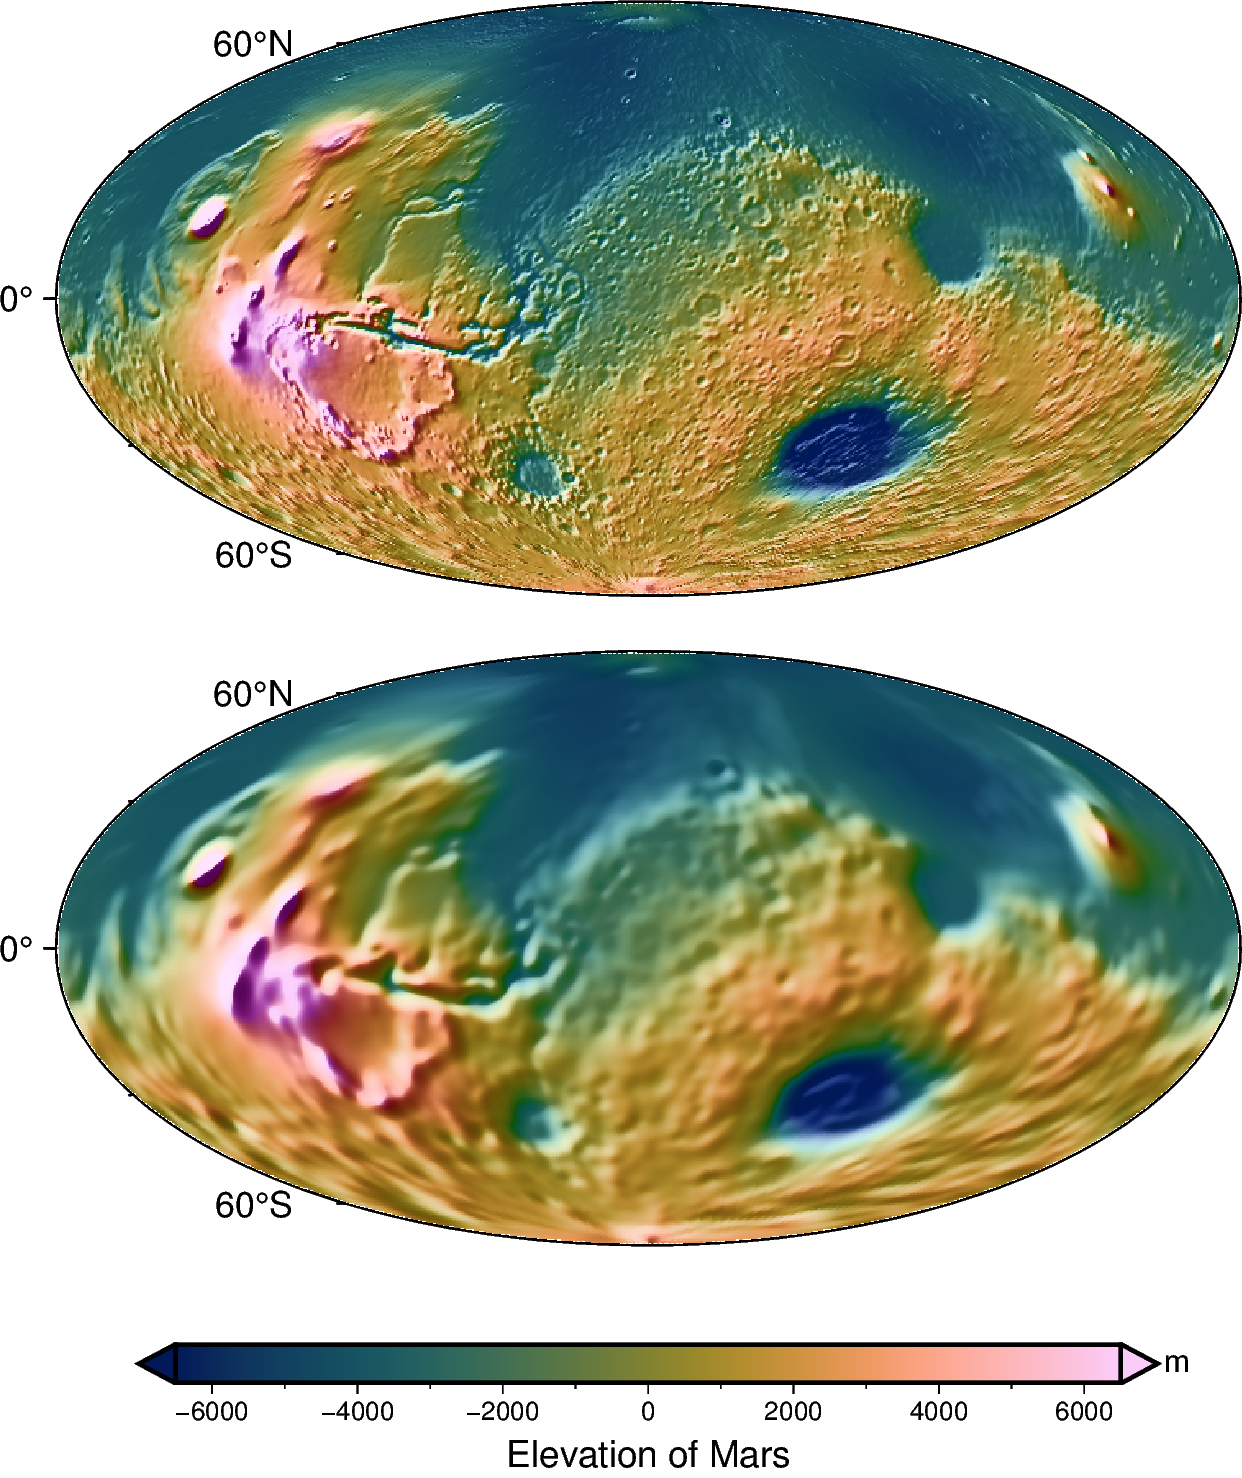
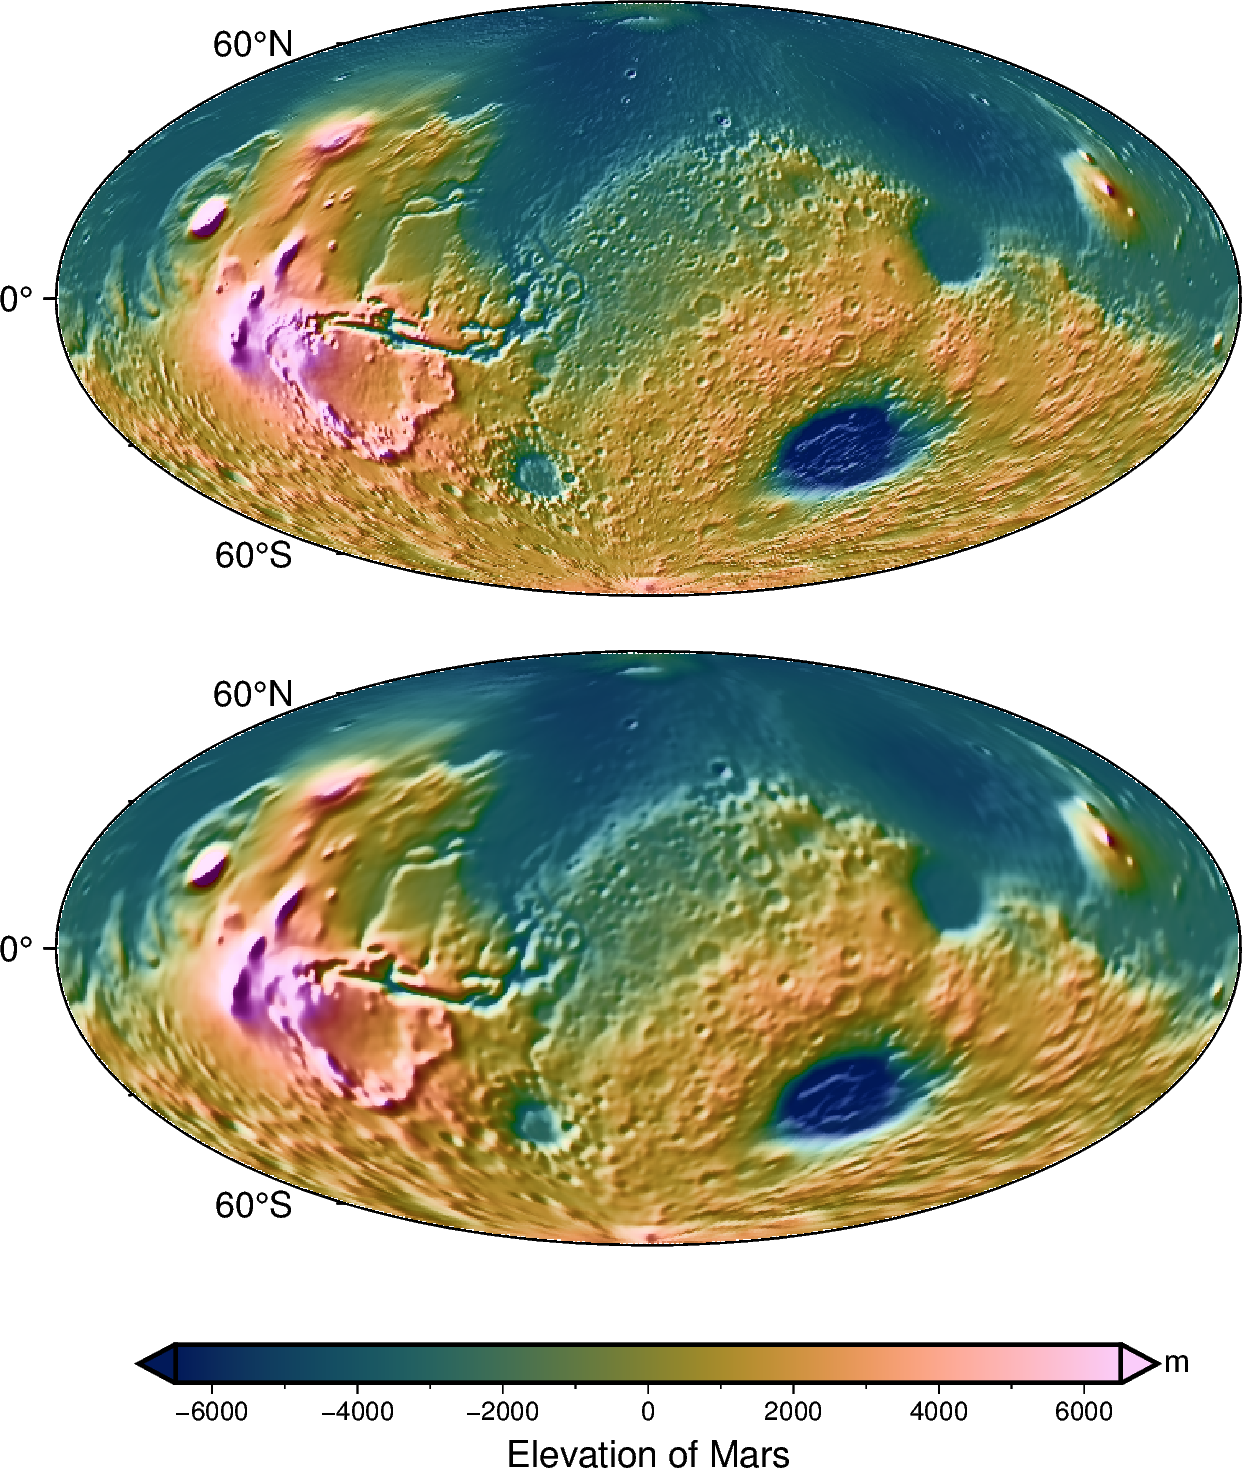
Add comments for understanding

Changed region(s): [[0.0612, 0.498, 1.0, 0.8403], [0.8261, 0.5291, 0.9179, 0.5913]]

diff --git a/Fig5_PyGMT_xarray.py b/Fig5_PyGMT_xarray.py
@@ -37,7 +37,9 @@ from pygmt.datasets import load_mars_relief
 
 mars = load_mars_relief(resolution="30m")
 with pygmt.config(PROJ_ELLIPSOID="mars"):
-    mars_filtered = mars.gmt.filter(filter="g500", distance=4)
+    # g: Gaussian
+    # 4: grid (x,y) in degrees, width in km, Spherical distance calculatio
+    mars_filtered = mars.gmt.filter(filter="g250", distance=4)
     mars_gradient = mars_filtered.gmt.gradient(azimuth=-45, normalize="t1")
 
 fig = pygmt.Figure()
